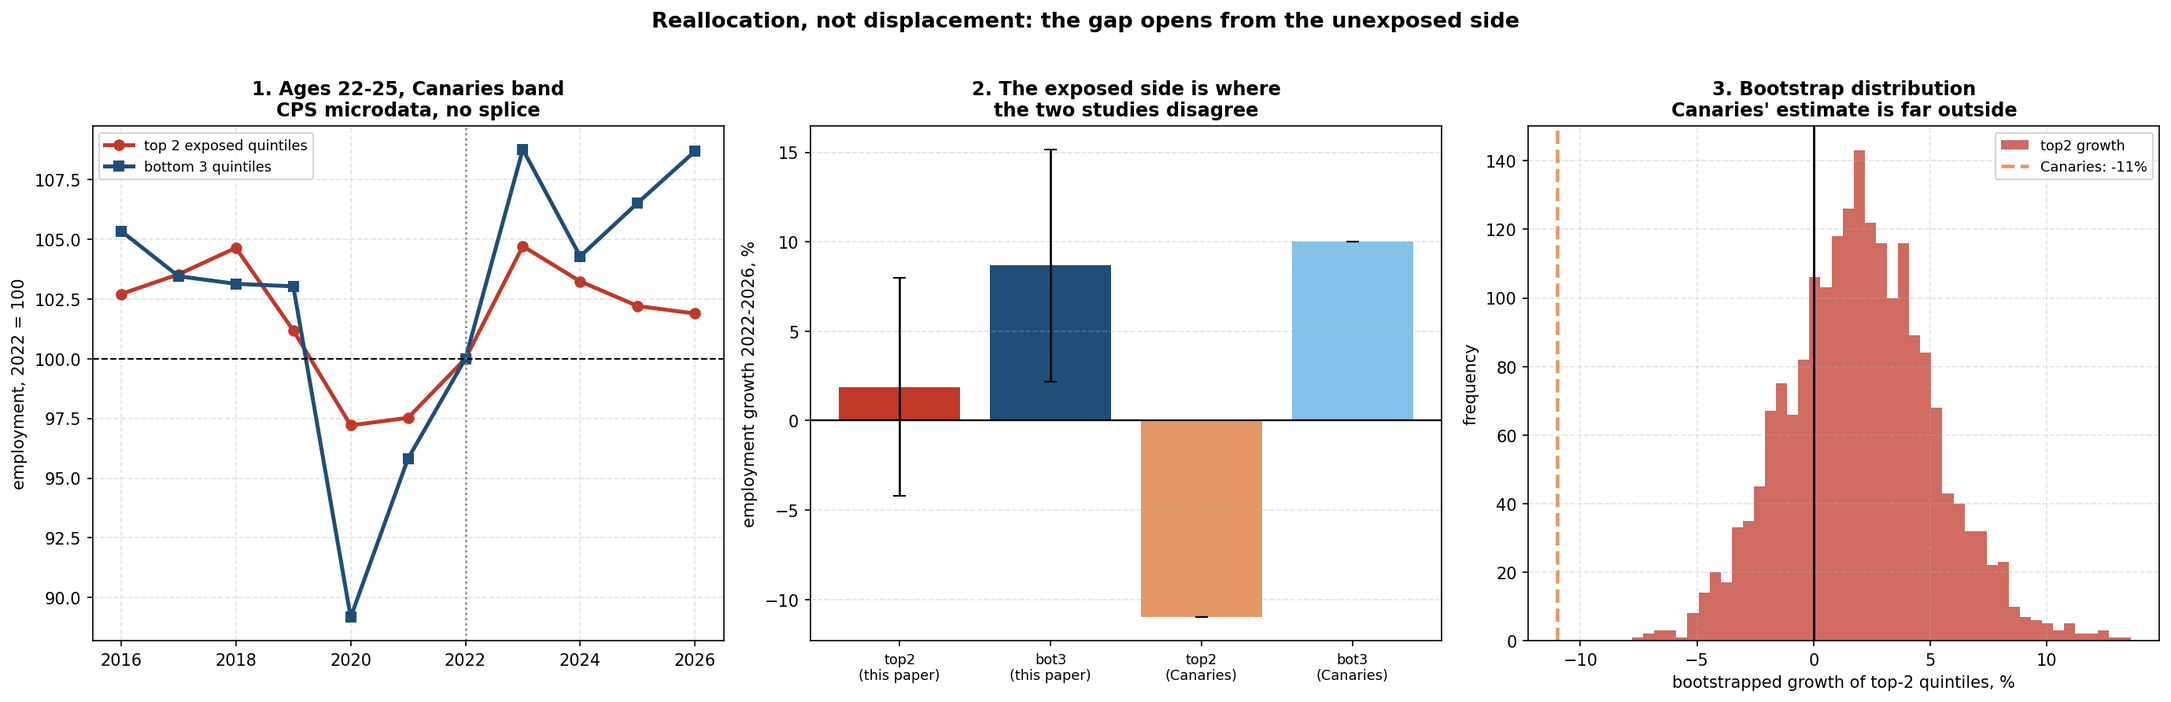
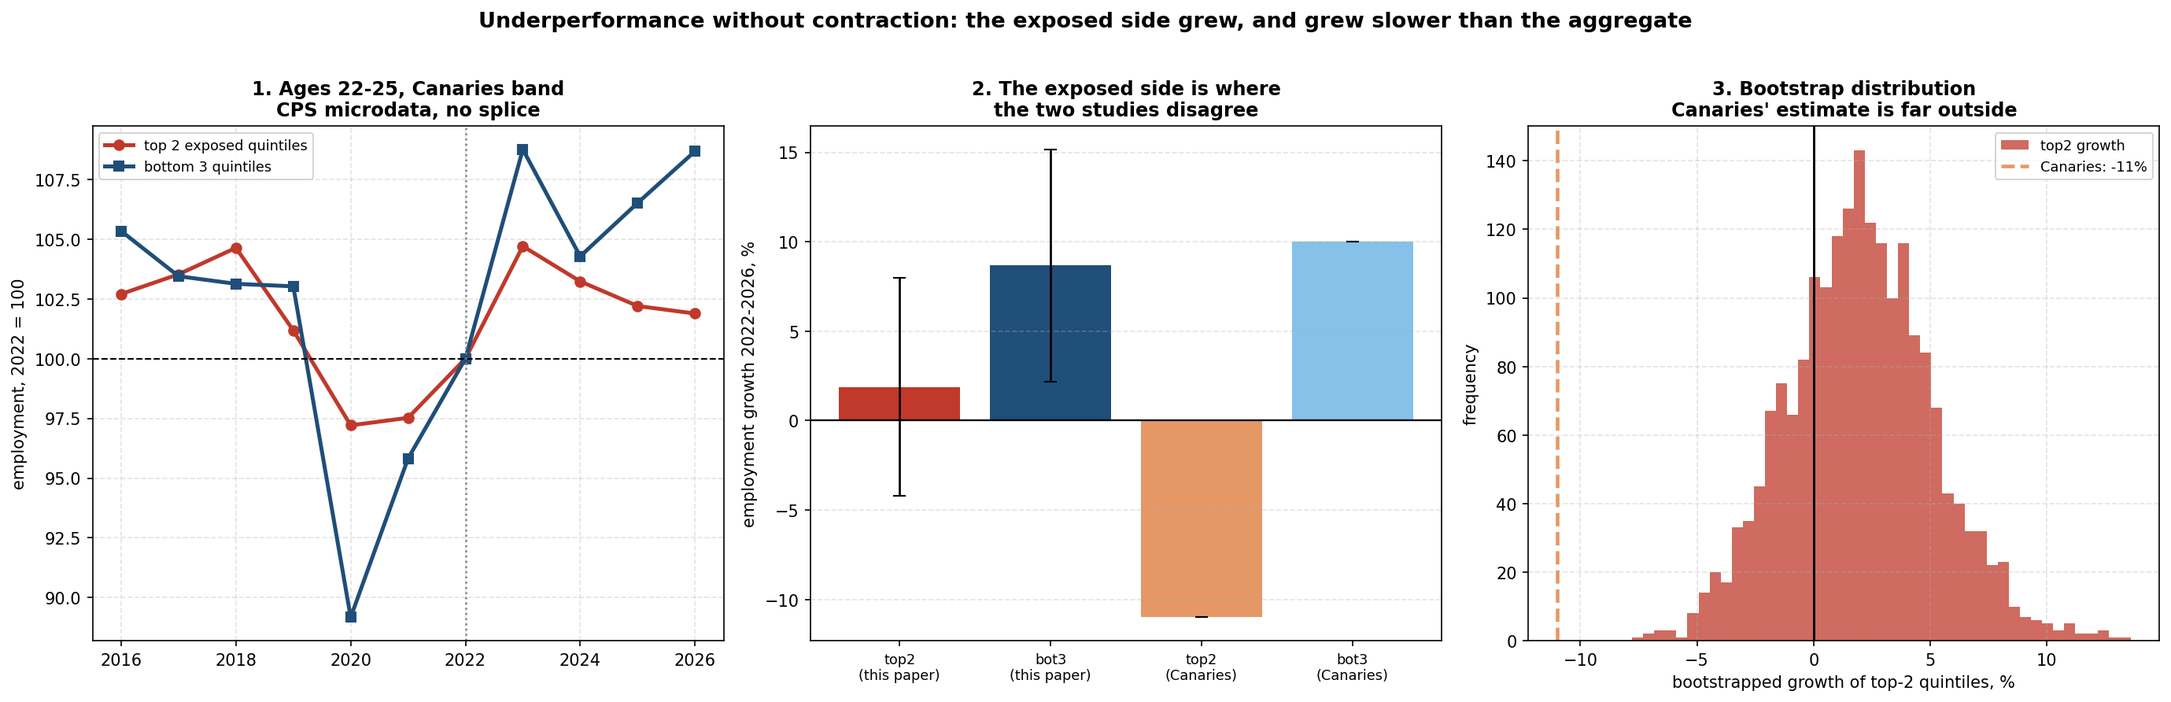
Withdraw the 128% decomposition; the benchmark was doing the work
Section 5 and Part 6 both claimed that 128% of the entry-level exposure gap came
from the unexposed side rising and none from the exposed side falling, and read
that as reallocation rather than displacement. The claim does not hold. It was an
artifact of the benchmark, and it was introduced in 59fde0d by taking this
script's printed output at face value instead of checking the arithmetic behind
it.

THE BUG

  f"from the exposed side falling below zero : {min(t,0):+.1f}pp"
  f"from the unexposed side rising above zero: {-max(b,0):+.1f}pp"

min(t, 0) with t = +1.88 is zero by construction. The script could only ever
report that none of the gap came from the exposed side whenever that side was
positive, which is a restatement of t > 0 rather than a decomposition.

Underneath the truncation sits the real problem. The split depends entirely on
the benchmark, and zero growth is not a neutral one: young employment overall
grew 5.79% over this window, so the no-gap counterfactual is both groups growing
at the common rate.

  benchmark                        exposed    unexposed
  zero, truncated (as published)        0%         128%
  zero, untruncated                   -28%         128%
  aggregate young growth (+5.79%)     57.5%       42.5%

It reverses. Against the defensible benchmark the exposed side is the larger
contributor, and the 20-24 band gives 58.8/41.2. Shares outside the unit interval
were the diagnostic that the benchmark was wrong.

WHAT THE FIX SURFACED
[…]

Changed region(s): [[0.2182, 0.0, 0.7793, 0.0605]]

diff --git a/entry_level_decomposition.py b/entry_level_decomposition.py
@@ -90,6 +90,11 @@ def growth(d, grp, a=BASE, b=END, occ_subset=None):
     e0 = dd[dd.year == a].emp.sum(); e1 = dd[dd.year == b].emp.sum()
     return 100 * (e1 / e0 - 1) if e0 > 0 else np.nan
 
+def growth_all(d, a=BASE, b=END):
+    """Growth of the whole young cohort, the benchmark the gap decomposes against."""
+    e0 = d[d.year == a].emp.sum(); e1 = d[d.year == b].emp.sum()
+    return 100 * (e1 / e0 - 1) if e0 > 0 else np.nan
+
 def boot(d):
     occs = d.occ.unique()
     out = []
@@ -99,8 +104,10 @@ def boot(d):
         dd = d[d.occ.isin(cnt.index)].copy()
         dd["rep"] = dd.occ.map(cnt).astype(float)
         dd["emp"] = dd.emp * dd.rep
-        t = growth(dd, "top2"); b = growth(dd, "bot3")
-        if np.isfinite(t) and np.isfinite(b): out.append((t, b, t - b))
+        t = growth(dd, "top2"); b = growth(dd, "bot3"); g = growth_all(dd)
+        if np.isfinite(t) and np.isfinite(b) and np.isfinite(g):
+            # cols: 0 top2, 1 bot3, 2 gap, 3 all, 4 top2 shortfall, 5 bot3 excess
+            out.append((t, b, t - b, g, t - g, b - g))
     return np.array(out)
 
 print("=" * 100)
@@ -116,7 +123,7 @@ for band, lab in [("a22_25", "22-25  (Canaries band)"), ("a20_24", "20-24  (this
     B = boot(d)
     ci = lambda col: np.percentile(B[:, col], [2.5, 97.5])
     pval = lambda col: 2 * min((B[:, col] <= 0).mean(), (B[:, col] >= 0).mean())
-    RES[band] = dict(d=d, top=t, bot=b, B=B)
+    RES[band] = dict(d=d, top=t, bot=b, B=B, all=growth_all(d))
     print(f"\n  {lab}     ({d.occ.nunique()} occupations)")
     print(f"    {'group':<34}{'growth':>10}{'95% CI':>22}{'p vs 0':>10}")
     print(f"    {'top 2 exposed quintiles':<34}{t:>+9.1f}%   [{ci(0)[0]:+6.1f}, {ci(0)[1]:+6.1f}]{pval(0):>10.3f}")
@@ -126,19 +133,43 @@ for band, lab in [("a22_25", "22-25  (Canaries band)"), ("a20_24", "20-24  (this
     print(f"    Difference on the exposed side:    {t - (-11):+.1f}pp")
 
 print("\n" + "=" * 100)
-print("WHICH SIDE OPENS THE GAP?")
+print("TWO QUESTIONS, TWO BENCHMARKS")
 print("=" * 100)
 print("""
-  A displacement account requires the exposed side to fall. Decomposing the gap into
-  the deviation of each group from zero growth:""")
+  These are separate questions and they take different benchmarks. An earlier version
+  of this script ran them together against zero and reported that none of the gap came
+  from the exposed side. That was an artifact: it truncated a positive growth rate at
+  zero, so it could not have reported anything else. Both are shown here.
+
+  Q1  DID THE EXPOSED SIDE CONTRACT?  Benchmark zero. A displacement account needs
+      employment in exposed occupations to fall in levels.
+
+  Q2  WHICH SIDE OPENS THE GAP?  Benchmark the aggregate growth of the young cohort,
+      because "no gap" means both groups growing at the common rate, not at zero.
+      Against zero the shares are uninterpretable and can exceed 100%.""")
+
 for band, lab in [("a22_25", "22-25"), ("a20_24", "20-24")]:
-    t, b = RES[band]["top"], RES[band]["bot"]
+    B = RES[band]["B"]
+    t, b, allg = RES[band]["top"], RES[band]["bot"], RES[band]["all"]
     gap = t - b
-    print(f"\n  {lab}:  gap = {gap:+.1f}pp")
-    print(f"    from the exposed side falling below zero : {min(t,0):+.1f}pp  "
-          f"({100*min(t,0)/gap if gap else 0:.0f}% of the gap)")
-    print(f"    from the unexposed side rising above zero: {-max(b,0):+.1f}pp  "
-          f"({100*max(b,0)/abs(gap) if gap else 0:.0f}% of the gap)")
+    ci = lambda c: np.percentile(B[:, c], [2.5, 97.5])
+    pv = lambda c: 2 * min((B[:, c] <= 0).mean(), (B[:, c] >= 0).mean())
+    print(f"\n  {lab}:  top2 {t:+.2f}%   bot3 {b:+.2f}%   all occupations {allg:+.2f}%   gap {gap:+.2f}pp")
+    print(f"    Q1  exposed-side growth vs zero        {t:+.2f}%   "
+          f"[{ci(0)[0]:+.1f}, {ci(0)[1]:+.1f}]  p = {pv(0):.3f}   -> did NOT contract")
+    print(f"    Q2  benchmark = aggregate ({allg:+.2f}%)")
+    print(f"          exposed side underperforms   {t-allg:+.2f}pp  "
+          f"[{ci(4)[0]:+.1f}, {ci(4)[1]:+.1f}]  p = {pv(4):.3f}   ({100*(t-allg)/gap:.1f}% of the gap)")
+    print(f"          unexposed side outperforms   {b-allg:+.2f}pp  "
+          f"[{ci(5)[0]:+.1f}, {ci(5)[1]:+.1f}]  p = {pv(5):.3f}   ({-100*(b-allg)/gap:.1f}% of the gap)")
+    print(f"    For contrast, the same split against zero: "
+          f"exposed {100*t/gap:.1f}%, unexposed {-100*b/gap:.1f}% (uninterpretable)")
+
+print("""
+  The gap is split roughly evenly with a tilt toward the exposed side. Both sides move.
+  The exposed side underperforms the aggregate without contracting, which rejects the
+  displacement magnitude without supporting a claim that the gap is generated entirely
+  by the unexposed side.""")
 
 print("\n" + "=" * 100)
 print("THE FULL PATH, indexed to 2022 = 100")
@@ -201,7 +232,7 @@ ax[2].set_ylabel("frequency", fontsize=10)
 ax[2].set_title("3. Bootstrap distribution\nCanaries' estimate is far outside", fontsize=11.5, fontweight="bold")
 ax[2].legend(fontsize=8.5); ax[2].grid(True, ls="--", alpha=.35)
 
-fig.suptitle("Reallocation, not displacement: the gap opens from the unexposed side",
+fig.suptitle("Underperformance without contraction: the exposed side grew, and grew slower than the aggregate",
              fontsize=13, fontweight="bold", y=1.02)
 plt.tight_layout(); plt.savefig("entry_level_decomposition.png", dpi=150, bbox_inches="tight")
 print("\nChart saved: entry_level_decomposition.png")

diff --git a/README.md b/README.md
@@ -15,7 +15,7 @@ For 60 years there has been a reliable rule in economics: when the economy grows
 | Did AI break it? | **No evidence that it did.** Every affirmative AI-displacement result this project produced was later overturned by its own tests |
 | Is there AI displacement anywhere in the labor data? | **Not that survives.** Sector totals, occupation totals, 28,000 within-industry cells, and a 6.0M-record CPS panel all fail, and the entry-level result failed last |
 | Does AI predict anything real? | **Yes, one thing.** Job replaceability robustly predicts real productivity growth (r = +0.90), but the relationship is **strongest in 2013-2019**, before generative AI existed |
-| Does the published entry-level displacement result replicate? | **The gap does; the mechanism does not.** In nationally representative data the exposed side grew **+1.9%**, not −11%, and 128% of the gap comes from *unexposed* occupations absorbing young workers (Part 6) |
+| Does the published entry-level displacement result replicate? | **The gap does; the magnitude does not.** In nationally representative data the exposed side **grew +1.9%** against a reported −11%, and its interval rejects that figure at p < 0.001. It underperformed the aggregate by 3.9pp, which is not significant (p = 0.141) (Part 6) |
 
 **The one finding that survives everything.** Every inferential result in this project was eventually overturned. One descriptive result was not, and it is the durable contribution: **young workers are increasingly sorted away from AI-exposed work.** In the 6.0M-record CPS panel, the 20-24 share of employment in high-exposure occupations fell while the share in low-exposure occupations rose, widening the gap by roughly 2.2 percentage points across the decade.
 
@@ -29,7 +29,7 @@ This is why it survives when nothing else did. It is a **statement about levels,
 
 **It has since been strengthened, and it now has a regression form (Part 6).** With occupation and year fixed effects across 451 occupations the coefficient is −0.4632 (p = 0.0001) for 20-24 and −0.4200 (p = 0.0001) on the 22-25 band used by Brynjolfsson, Chandar and Chen (2026). It **strengthens** under education and wage controls rather than attenuating (−0.5327 and −0.4627 with both), the pre-AI placebo on the controlled specification is clean (p = 0.50 and p = 0.73), and the 2022 break survives all eight BLS/CPS splice variants. The published version of this result concedes attenuation on education, pre-existing divergent trends, and weakness in national survey benchmarks. This one improves on all three.
 
-**What it does not establish, and Part 6 now shows why.** It is a sorting fact rather than a displacement fact, and the levels decomposition locates the mechanism: employment in the two most exposed quintiles **grew +1.9%** over 2022-2026 (95% CI −4.0 to +8.2), while the three least exposed grew +8.7% (p = 0.007). None of the gap comes from the exposed side falling; 128% of it comes from the unexposed side rising. Exposed occupations did underperform the aggregate by 3.9pp, so the shortfall is real, and they did not contract. Young workers ending up in more manual and service work is consistent with AI closing exposed entry points, and equally consistent with where job growth happened, with education and major choices, and with the post-2021 boom in in-person work. This project cannot separate those, and the movement predates 2022 in the levels.
+**What it does not establish, and Part 6 now shows why.** It is a sorting fact rather than a displacement fact, and the levels decomposition locates the mechanism: employment in the two most exposed quintiles **grew +1.9%** over 2022-2026 (95% CI −4.0 to +8.2), while the three least exposed grew +8.7% (p = 0.007). Benchmarked against what young employment actually did (+5.8%), the gap splits 57.5% from the exposed side underperforming and 42.5% from the unexposed side outperforming, so both sides move and neither dominates. The exposed group's 3.9pp shortfall is not significant (p = 0.141); what the levels settle is that it did not contract. Young workers ending up in more manual and service work is consistent with AI closing exposed entry points, and equally consistent with where job growth happened, with education and major choices, and with the post-2021 boom in in-person work. This project cannot separate those, and the movement predates 2022 in the levels.
 
 **What this project is actually a contribution to.** Not the AI-and-jobs question, which it answers negatively. It is a worked account of how an instrument can be blind, how a null can be uninformative, and how a positive result can survive several rounds of scrutiny and still be wrong. Nine separate self-corrections are documented, including a retraction of a retraction.
 
@@ -1070,7 +1070,16 @@ Quintiles on the Eloundou GPT-4 β, employment weighted at the 2022 base. CPS mi
 
 ![Entry-level decomposition](entry_level_decomposition.png)
 
-**The exposed side does not fall.** Its confidence interval excludes −11% decisively (p < 0.001 against that value). What is significant is the *unexposed* side rising, at p = 0.007. Decomposed against a zero-growth benchmark, **128%** of the −6.8pp gap comes from the unexposed side rising and none of it from the exposed side falling, because the exposed side did not fall. The 20-24 band gives 136%.
+**The exposed side does not fall.** Its confidence interval excludes −11% decisively (p < 0.001 against that value). What is significant is the *unexposed* side rising, at p = 0.007.
+
+**Which side opens the gap depends on the benchmark, and only one benchmark is defensible.** Zero growth answers "did the exposed side contract" (it did not). It does not answer "which side opens the gap", because young employment overall grew **+5.8%**, so the no-gap counterfactual is both groups growing at that common rate. Against the aggregate:
+
+| | deviation | 95% CI | p | share of gap |
+|---|---:|---:|---:|---:|
+| exposed side underperforms | −3.90pp | [−8.9, +1.3] | 0.141 | **57.5%** |
+| unexposed side outperforms | +2.88pp | [−0.9, +6.9] | 0.141 | 42.5% |
+
+Both sides move and neither dominates, with a modest tilt toward the exposed side (20-24 gives 58.8/41.2). The two rows carry the same p-value necessarily, since the aggregate is a weighted average of the two groups and each deviation is a fixed positive multiple of the gap; they are one test reported twice, and the 3.9pp shortfall is therefore **not** independent evidence. Against a zero benchmark the same arithmetic hands the unexposed side 128% of the gap and the exposed side −28%; shares outside the unit interval are the diagnostic that the benchmark is wrong.
 
 **The two-sided statement, which the paper carries as written.** Young employment across all occupations grew +5.8% over the same window. The exposed group grew +1.9%, a **3.9pp shortfall** against the aggregate. Underperformance relative to a growing aggregate is real. Contraction in levels is not. Those are different claims and only the first survives.
 
@@ -1267,11 +1276,13 @@ Essentially zero in both. Occupations that actually lost young workers show no m
 
 **Resolution.** The two results do not conflict. The wage-distribution test was blind to the effect by construction, on two counts, and should no longer be cited as one of the designs that returned a null against the entry-level hypothesis. The relevant caveat on the age finding is the one already stated in its own section: published CPS tables cannot separate "AI took the tasks" from "employers froze entry hiring for AI-adjacent reasons." This section makes the freeze reading somewhat more likely, because a pure task-substitution story with wage competition should have moved prices at least a little, and it moved them not at all.
 
-### Young workers are sorted away from AI-exposed work → **ESTABLISHED, AND THE MECHANISM IS REALLOCATION**
+### Young workers are sorted away from AI-exposed work → **ESTABLISHED; THE DISPLACEMENT MAGNITUDE IS REJECTED, THE MECHANISM IS NOT RESOLVED**
 
 The one result that survived every round of scrutiny, now with a regression form and an external comparison (Part 6). With occupation and year fixed effects across 451 occupations, the young-share coefficient on exposure is −0.4632 (p = 0.0001) for 20-24 and −0.4200 (p = 0.0001) on the 22-25 band, holds on the raw Eloundou score with no O\*NET term, **strengthens** under education and wage controls, has a clean pre-AI placebo, and survives all eight BLS/CPS splice variants.
 
-The displacement reading of that sorting does **not** survive. Decomposed into levels, employment in the two most exposed quintiles grew +1.9% over 2022-2026 (95% CI −4.0 to +8.2), against −11% reported in ADP payroll data; 128% of the gap comes from unexposed occupations absorbing young workers, and none from the exposed side falling. Neither sample universe (−0.6pp) nor window (+0.6pp) explains the discrepancy, and an adversarially stacked specification reaches only −4.7% on a third of the sample. Exposed occupations underperformed the aggregate by 3.9pp, which is real, and did not contract, which is what displacement requires.
+The displacement reading of that sorting does **not** survive. Decomposed into levels, employment in the two most exposed quintiles grew +1.9% over 2022-2026 (95% CI −4.0 to +8.2), against −11% reported in ADP payroll data, and the interval rejects that figure at p < 0.001. Neither sample universe (−0.6pp) nor window (+0.6pp) explains the discrepancy, and an adversarially stacked specification reaches only −4.7% on a third of the sample. Exposed occupations underperformed the aggregate by 3.9pp and did not contract, which is what displacement requires.
+
+**What the levels do not settle is which side opens the gap.** Benchmarked against aggregate young employment growth (+5.8%), the split is 57.5% exposed / 42.5% unexposed, and neither deviation is significant (p = 0.141 for both, necessarily, since they are one test). An earlier version of this section reported that 128% of the gap came from the unexposed side; that figure used zero growth as the benchmark and truncated a positive growth rate at zero, so it could not have reported anything else. It is withdrawn.
 
 Note the estimands differ in power: the share regression is significant at p = 0.0001 across 451 occupations, the levels gap is not (−6.8pp, p = 0.141), because group aggregates are dominated by a few large occupations. The share result establishes *that* the sorting happens; the levels result establishes *where in the distribution* and rejects a published magnitude. Neither this project nor the paper claims a significant reallocation gap in levels.
 

diff --git a/PAPER.md b/PAPER.md
@@ -1,4 +1,4 @@
-# Reallocation, Not Displacement
+# Underperformance Without Contraction
 
 **Entry-level employment and AI exposure in nationally representative data**
 
@@ -96,13 +96,23 @@ percentage points with an interval of [−15.5, +2.2], the levels comparison can
 reject the absence of a gap. This is a power result rather than a contradiction,
 and Section 5.6 treats it directly.
 
-Decomposing the gap against a zero-growth benchmark makes the arithmetic explicit.
-For the 22 to 25 band, none of the −6.8 point gap comes from the exposed side
-falling below zero, because it did not fall below zero, and 128 percent of it
-comes from the unexposed side rising above zero. The 20 to 24 band gives 136
-percent. The gap is an artifact of one side rising.
+Decomposing the gap requires a benchmark, and the choice is consequential enough
+to state explicitly. Zero growth is the right benchmark for asking whether the
+exposed side contracted, and the answer is that it did not. It is the wrong
+benchmark for asking which side opens the gap, because young employment overall
+grew 5.8 percent over this window, so the no-gap counterfactual is both groups
+growing at that common rate rather than at zero. Measured against the aggregate,
+the exposed side underperforms by 3.9 percentage points and the unexposed side
+outperforms by 2.9, splitting the gap 57.5 to 42.5 with a modest tilt toward the
+exposed side. The 20 to 24 band splits 58.8 to 41.2. Both sides move and neither
+dominates.
 
-## 5.4 Underperformance is real, contraction is not
+Against a zero benchmark the same arithmetic assigns the unexposed side 128
+percent of the gap and the exposed side −28 percent. Shares outside the unit
+interval are the diagnostic that the benchmark is wrong, and this paper does not
+report that decomposition.
+
+## 5.4 Underperformance is imprecise, contraction is ruled out
 
 The finding above should not be read as an absence of any exposure-related
 pattern. Young employment across all occupations grew 5.8 percent over the same
@@ -110,12 +120,21 @@ window for the 22 to 25 band. The exposed group grew 1.9 percent, a shortfall of
 3.9 percentage points against the aggregate. The 20 to 24 band gives 5.7 percent
 against 2.2 percent, a shortfall of 3.6 points.
 
-This is the honest two-sided statement, and the paper carries it in both
-directions. Young employment in AI-exposed occupations grew more slowly than
-young employment overall, which is consistent with exposure suppressing entry
-into those occupations at the margin. It did not decline, which is what a
-displacement account requires. Underperformance relative to a growing aggregate
-and contraction in levels are different claims, and only the first survives.
+That shortfall is a point estimate and it is not statistically significant. The
+bootstrap interval runs [−8.9, +1.3] with p = 0.141, and it carries the same
+p-value as the gap itself. That is necessary rather than coincidental: the
+aggregate is a weighted average of the two groups, so the shortfall is a fixed
+positive multiple of the gap, and the two are one test reported twice.
+
+This is the honest two-sided statement and the paper carries it in both
+directions. Young employment in AI-exposed occupations grew more slowly than young
+employment overall, by a margin this data cannot distinguish from zero, which is
+consistent with exposure suppressing entry at the margin and equally consistent
+with no effect at all. It did not decline, which is what a displacement account
+requires, and that part the data do resolve, because the interval excludes the
+published magnitude decisively. Underperformance against a growing aggregate and
+contraction in levels are different claims, and only the second is settled here,
+in the negative.
 
 Table 5.2 gives the full path and supports two further points.
 
@@ -198,7 +217,9 @@ so the effective sample is large.
 The levels decomposition estimates a gap of −6.8 points with p = 0.141. It
 compares two aggregates, and aggregates of this kind are dominated by a handful of
 large occupations, so the bootstrap distribution is correspondingly wide. The loss
-of significance reflects the estimand and not a conflict in the underlying data.
+of significance reflects the estimand rather than a conflict in the underlying
+data. The 3.9 point shortfall against the aggregate is the same test carrying the
+same p-value, so it is not independent evidence and is not presented as such.
 
 Both belong in the paper and they support different sentences. The share result
 establishes that young workers are increasingly sorted away from AI-exposed
@@ -209,14 +230,20 @@ significant reallocation gap, and this paper does not claim one.
 
 ## 5.7 Summary
 
-Reproducing the exposure gap in nationally representative data and then
-decomposing it yields a different mechanism than the displacement reading of the
-same gap in payroll data. Employment of young workers in the most AI-exposed
-occupations grew slightly and insignificantly, underperformed the aggregate by
-about 4 percentage points, and did not contract. The divergence between exposure
-groups is generated almost entirely by less-exposed occupations absorbing a
-growing share of the young cohort. Neither sample universe nor window explains the
-discrepancy with the published ADP estimate, and an adversarial specification
-reaches only −4.7 percent on a third of the sample. The evidence supports
-reallocation of young workers across the exposure distribution, and does not
-support the destruction of entry-level positions in exposed occupations.
+Reproducing the exposure gap in nationally representative data and decomposing it
+does not support the displacement reading of the same gap in payroll data.
+Employment of young workers in the most AI-exposed occupations grew 1.9 percent
+over 2022 to 2026. It underperformed the aggregate by 3.9 points, a shortfall the
+data cannot distinguish from zero, and it did not contract, which the data do
+resolve: the interval excludes the published figure of −11 percent at p < 0.001.
+Neither sample universe nor window explains that discrepancy, and an adversarially
+stacked specification reaches only −4.7 percent on a third of the sample.
+
+What the levels establish is narrower than this section's original framing. The
+only movement identified with confidence is the less-exposed group growing 8.7
+percent, and the gap splits roughly evenly between the two sides. The claim this
+paper makes is that entry-level employment in AI-exposed occupations underperformed
+a growing aggregate without contracting, and that the published magnitude does not
+replicate outside payroll data. It does not claim a statistically significant
+reallocation of young workers across the exposure distribution, which these levels
+are too coarse to establish.
